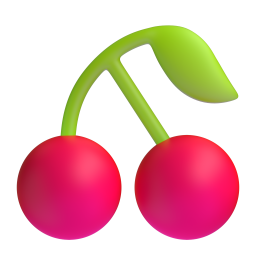
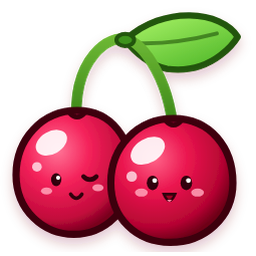
feat: upgrade cartoon cherry asset, refine size, and add organic multi-stage morphing animation

diff --git a/src/components/TaskGestureOverlay.tsx b/src/components/TaskGestureOverlay.tsx
@@ -20,16 +20,16 @@ interface TaskGestureOverlayProps {
 }
 
 // ==========================================
-// 统一高品质 3D 樱桃展示组件
+// 统一高品质卡通樱桃展示组件
 // ==========================================
 interface UnifiedCherryProps {
   size?: number;
 }
 
-export const UnifiedCherry: React.FC<UnifiedCherryProps> = ({ size = 56 }) => {
+export const UnifiedCherry: React.FC<UnifiedCherryProps> = ({ size = 34 }) => {
   return (
     <div
-      className="relative flex items-center justify-center select-none pointer-events-none overflow-visible filter drop-shadow-[0_8px_16px_rgba(225,29,72,0.45)]"
+      className="relative flex items-center justify-center select-none pointer-events-none overflow-visible filter drop-shadow-[0_4px_10px_rgba(225,29,72,0.38)]"
       style={{ width: size, height: size }}
     >
       <img
@@ -54,6 +54,8 @@ export const TaskGestureOverlay: React.FC<TaskGestureOverlayProps> = ({
 }) => {
   const [cherryPos, setCherryPos] = useState<{ x: number; y: number }>({ x: 0, y: 0 });
   const [isMorphedToCherry, setIsMorphedToCherry] = useState(false);
+  const [showRipple, setShowRipple] = useState(false);
+  const [tiltAngle, setTiltAngle] = useState(0);
   const [isThrowing, setIsThrowing] = useState(false);
   const [throwPos, setThrowPos] = useState<{ x: number; y: number; rotate: number; scale: number }>({
     x: 0,
@@ -79,17 +81,35 @@ export const TaskGestureOverlay: React.FC<TaskGestureOverlayProps> = ({
       isThrowingRef.current = false;
       setIsThrowing(false);
       setIsMorphedToCherry(false);
+      setShowRipple(false);
+      setTiltAngle(0);
 
       onTargetChange?.('none');
       onChompChange?.(null);
 
-      // 稍微留出 35ms 确保浏览器完成首帧布局后启动平滑卡片缩拢变樱桃的过渡动画
+      // 第 1 阶段：稍微留出 25ms 启动平滑卡片缩拢凝结为樱桃光晕的过渡动画
       const morphTimer = setTimeout(() => {
         setIsMorphedToCherry(true);
-      }, 35);
+      }, 25);
+
+      // 第 2 阶段：卡片凝聚达到临界点，萌趣卡通樱桃破茧弹出并绽放微光涟漪
+      const rippleTimer = setTimeout(() => {
+        setShowRipple(true);
+        if (typeof navigator !== 'undefined' && navigator.vibrate) {
+          try {
+            navigator.vibrate(14);
+          } catch {}
+        }
+      }, 210);
+
+      const rippleCleanup = setTimeout(() => {
+        setShowRipple(false);
+      }, 700);
 
       return () => {
         clearTimeout(morphTimer);
+        clearTimeout(rippleTimer);
+        clearTimeout(rippleCleanup);
       };
     }
   }, [gestureData?.task?.id]);
@@ -100,6 +120,12 @@ export const TaskGestureOverlay: React.FC<TaskGestureOverlayProps> = ({
 
     const processMove = (clientX: number, clientY: number) => {
       if (isThrowingRef.current) return;
+      const prevX = currentPosRef.current.x;
+      const deltaX = clientX - prevX;
+      // 微妙物理惯性倾角（-16deg 到 +16deg）
+      const tilt = Math.max(-16, Math.min(16, deltaX * 1.6));
+      setTiltAngle(tilt);
+
       currentPosRef.current = { x: clientX, y: clientY };
       setCherryPos({ x: clientX, y: clientY });
 
@@ -198,9 +224,9 @@ export const TaskGestureOverlay: React.FC<TaskGestureOverlayProps> = ({
         const arcY = -4 * peakHeight * t * (1 - t);
         const curY = linearY + arcY;
 
-        // 旋转与接近嘴巴时的微小缩放吸入感
-        const rotate = t * 360;
-        const scale = t > 0.82 ? 1 - ((t - 0.82) / 0.18) * 0.8 : 1;
+        // 旋转与接近嘴巴时的微小缩放吸入感（从 1.0 平滑吸小至 ~0.48，让樱桃顺畅进入嘴中）
+        const rotate = t * 450;
+        const scale = t > 0.6 ? 1 - ((t - 0.6) / 0.4) * 0.52 : 1;
 
         setThrowPos({
           x: curX,
@@ -282,7 +308,7 @@ export const TaskGestureOverlay: React.FC<TaskGestureOverlayProps> = ({
       <div className="fixed inset-0 z-[150] select-none touch-none overflow-hidden pointer-events-none">
         
         {/* ========================================================= */}
-        {/* 动态抛物线飞向动物嘴巴的 3D 樱桃 (绝对从松开处起飞) */}
+        {/* 动态抛物线飞向动物嘴巴的卡通樱桃 (绝对从松开处起飞，吸入嘴中) */}
         {/* ========================================================= */}
         {isThrowing && (
           <div
@@ -293,72 +319,135 @@ export const TaskGestureOverlay: React.FC<TaskGestureOverlayProps> = ({
               transform: `translate(-50%, -50%) rotate(${throwPos.rotate}deg) scale(${throwPos.scale})`
             }}
           >
-            <UnifiedCherry size={50} />
+            <UnifiedCherry size={34} />
           </div>
         )}
 
         {/* ========================================================= */}
-        {/* 待办卡片向光标处平滑凝聚变为樱桃的过渡动画 */}
+        {/* 待办卡片向光标处平滑凝聚变为樱桃的多阶段有机过渡动画 */}
         {/* ========================================================= */}
         {!isThrowing && (
           <motion.div
-            layout
             initial={{
               left: cardRect.left,
               top: cardRect.top,
               width: cardRect.width,
               height: cardRect.height,
-              borderRadius: 12,
-              opacity: 1
+              borderRadius: 12
             }}
             animate={
               isMorphedToCherry
                 ? {
-                    left: cherryPos.x - 26,
-                    top: cherryPos.y - 26,
-                    width: 52,
-                    height: 52,
-                    borderRadius: 999,
-                    opacity: 1
+                    left: cherryPos.x - 17,
+                    top: cherryPos.y - 17,
+                    width: 34,
+                    height: 34,
+                    borderRadius: 999
                   }
                 : {
                     left: cardRect.left,
                     top: cardRect.top,
                     width: cardRect.width,
                     height: cardRect.height,
-                    borderRadius: 12,
-                    opacity: 1
+                    borderRadius: 12
                   }
             }
             transition={{
               type: 'spring',
-              stiffness: 360,
-              damping: 25
+              stiffness: 340,
+              damping: 24
             }}
-            className={`fixed pointer-events-none z-[155] flex items-center justify-center bg-transparent ${
-              isMorphedToCherry ? 'overflow-visible' : 'overflow-hidden shadow-xl'
-            }`}
+            className="fixed pointer-events-none z-[155] flex items-center justify-center overflow-visible"
           >
-            {isMorphedToCherry ? (
-              // 变形完毕：展现晶莹饱满可爱的 3D 樱桃（完全无任何圆形边框裁切）
-              <motion.div
-                initial={{ scale: 0.2, rotate: -20 }}
-                animate={{ scale: 1, rotate: 0 }}
-                transition={{ type: 'spring', stiffness: 420, damping: 20 }}
-                className="overflow-visible flex items-center justify-center"
-              >
-                <UnifiedCherry size={58} />
-              </motion.div>
-            ) : (
-              // 变形前：原卡片内容平滑收拢淡出
-              <motion.div
-                exit={{ opacity: 0 }}
-                transition={{ duration: 0.15 }}
-                className="w-full h-full border border-white/40 dark:border-white/20 bg-white/95 dark:bg-neutral-900/95 rounded-xl px-3 py-2 flex items-center text-[var(--text-main)] shadow-xl"
-              >
-                <span className="text-sm font-semibold truncate">{task.title}</span>
-              </motion.div>
+            {/* 阶段 1：原卡片内容与外框平滑收缩凝聚并淡出 */}
+            <motion.div
+              className="absolute inset-0 rounded-xl overflow-hidden flex items-center px-3 border border-white/60 dark:border-white/20 bg-white/95 dark:bg-stone-900/95 shadow-md pointer-events-none"
+              animate={{
+                opacity: isMorphedToCherry ? 0 : 1,
+                scale: isMorphedToCherry ? 0.6 : 1,
+                filter: isMorphedToCherry ? 'blur(4px)' : 'blur(0px)'
+              }}
+              transition={{ duration: 0.18, ease: 'easeIn' }}
+            >
+              <span className="text-xs font-semibold truncate text-[var(--text-main)]">
+                {task.title}
+              </span>
+            </motion.div>
+
+            {/* 阶段 2：卡片收缩为果实核心时的粉晶樱桃光晕水滴 */}
+            <motion.div
+              className="absolute inset-0 rounded-full pointer-events-none"
+              initial={{ opacity: 0, scale: 0.4 }}
+              animate={
+                isMorphedToCherry
+                  ? {
+                      opacity: [0, 0.9, 0],
+                      scale: [0.4, 1.35, 0.9]
+                    }
+                  : { opacity: 0, scale: 0.4 }
+              }
+              transition={{
+                duration: 0.36,
+                times: [0, 0.5, 1],
+                ease: 'easeOut'
+              }}
+              style={{
+                background:
+                  'radial-gradient(circle, rgba(255, 117, 151, 0.9) 0%, rgba(225, 29, 72, 0.45) 60%, transparent 100%)'
+              }}
+            />
+
+            {/* 阶段 3：萌趣樱桃破茧而出，伴随弹性震颤与涟漪环 */}
+            {showRipple && (
+              <>
+                <motion.div
+                  initial={{ scale: 0.3, opacity: 0.9 }}
+                  animate={{ scale: 2.2, opacity: 0 }}
+                  transition={{ duration: 0.42, ease: 'easeOut' }}
+                  className="absolute rounded-full border-2 border-rose-400 pointer-events-none"
+                  style={{ width: 34, height: 34 }}
+                />
+                <motion.div
+                  initial={{ x: 0, y: 0, scale: 0, opacity: 1 }}
+                  animate={{ x: -14, y: -14, scale: 1.1, opacity: 0 }}
+                  transition={{ duration: 0.38, ease: 'easeOut' }}
+                  className="absolute text-[11px] pointer-events-none"
+                >
+                  ✨
+                </motion.div>
+                <motion.div
+                  initial={{ x: 0, y: 0, scale: 0, opacity: 1 }}
+                  animate={{ x: 15, y: -12, scale: 1.1, opacity: 0 }}
+                  transition={{ duration: 0.4, ease: 'easeOut' }}
+                  className="absolute text-[11px] pointer-events-none"
+                >
+                  🌸
+                </motion.div>
+              </>
             )}
+
+            {/* 阶段 4：精致卡通樱桃果实（富有弹性的弹出动画 + 随手指摆动的动态摇晃倾角） */}
+            <motion.div
+              className="relative flex items-center justify-center overflow-visible pointer-events-none"
+              initial={{ opacity: 0, scale: 0.1, rotate: -20 }}
+              animate={
+                isMorphedToCherry
+                  ? {
+                      opacity: 1,
+                      scale: [0.1, 1.25, 0.92, 1],
+                      rotate: [-20, 10, -4, tiltAngle]
+                    }
+                  : { opacity: 0, scale: 0.1, rotate: -20 }
+              }
+              transition={{
+                delay: 0.08,
+                duration: 0.4,
+                times: [0, 0.55, 0.8, 1],
+                ease: 'easeOut'
+              }}
+            >
+              <UnifiedCherry size={34} />
+            </motion.div>
           </motion.div>
         )}
 
